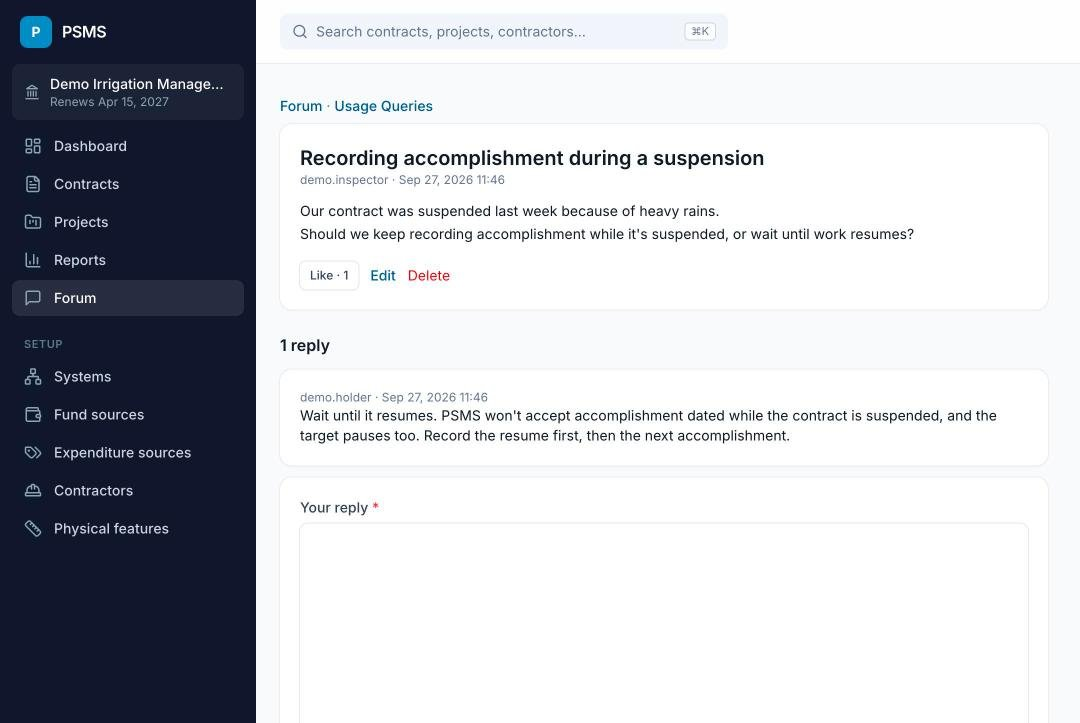
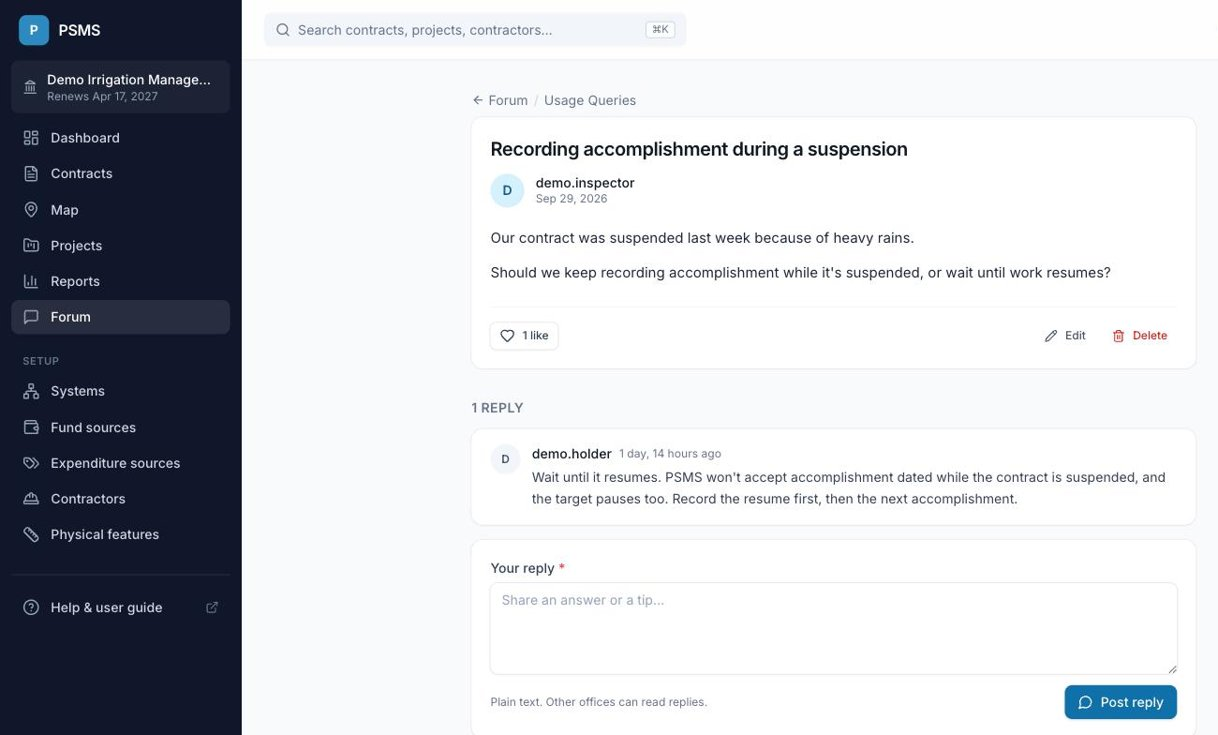
Document the weekly digest and refreshed forum

diff --git a/docs/guide/office.md b/docs/guide/office.md
@@ -29,9 +29,28 @@ The renewal date also appears in the sidebar, and turns amber once it has passed
 - To renew, or to change your plan or provinces, contact the PSMS administrator. Renewing adds one period (30 days for
   monthly, 365 for yearly) from today or from the current renewal date, whichever is later.
 
-## Report settings
+## Report and email settings
 
 - **Revised expiry from time extensions.** *Off* (default): a contract's revised expiry is the original expiry plus the
   days it was suspended. *On*: the original expiry plus approved time extensions. Both dates are always shown on the
   contract page; this setting decides which one reports call "revised expiry".
 - **Show summary rows in reports.** Shows the summary figures above report tables and adds totals rows to Excel exports.
+- **Weekly email digest.** *On* (default): every Monday at 7:00 AM, the office's Account Holders get an email listing
+  the contracts that need attention. See [Weekly digest](#weekly-digest). Turn it off to stop these emails for everyone
+  in the office.
+
+## Weekly digest
+
+Each Monday morning, Account Holders get one email per office with:
+
+- **Became overdue this week:** contracts that passed their revised expiry in the last 7 days without being completed.
+- **Falling further behind:** ongoing contracts behind schedule whose slippage got at least 1 percentage point worse
+  since the week before.
+- **Expiring in the next 30 days:** contracts whose revised expiry is coming up.
+- **No accomplishment entered in 30+ days:** ongoing contracts nobody has updated for a month, so their figures may
+  be out of date.
+
+Each contract has a link to its page. If nothing needs attention that week, no email is sent. Like the dashboard, the
+digest leaves out work done by administration. It goes only to Account Holders who have an email address on their
+account.
+

diff --git a/docs/guide/forum.md b/docs/guide/forum.md
@@ -10,8 +10,9 @@ contractors, personal information or anything confidential.
 
 ## Browsing
 
-Open **Forum** in the sidebar. Posts are listed newest first, 30 per page, each with its category, author, date, number
-of replies and likes. Use the **Categories** list on the left to show one category, or **All**:
+Open **Forum** in the sidebar. Posts are listed newest first, 30 per page, each with its category, author, when it was
+posted and last replied to, and its reply and like counts. Use **Categories** on the left (along the top on a phone)
+to show one category, or **All posts**:
 
 - **Announcements:** news from the PSMS team, such as new features and maintenance.
 - **Usage Queries:** "how do I...?" questions about using PSMS.
@@ -35,8 +36,8 @@ during a suspension"* rather than *"Help"*.
 ## Replying and liking
 
 - Open a post to read the replies, oldest first, and type yours in the box at the bottom, then click **Post reply**.
-- **Like** a post to show it was helpful; click again (**Unlike**) to take it back. The number shows how many people
-  liked it.
+- Click the **heart** under a post to like it; it turns red. Click again to take your like back. The number shows how
+  many people liked it.
 
 ## Editing and deleting
 

diff --git a/docs/calculations.md b/docs/calculations.md
@@ -15,7 +15,7 @@ worked example: a **100-day** contract that **starts on January 1**, so day 1 is
 | **Original expiry** | start + duration − 1 (the last day of the contract) | April 10 |
 | **Expiry due to suspensions** | original expiry + days suspended | April 20, after 10 days suspended |
 | **Expiry due to time extensions** | original expiry + approved time-extension days | April 25, after a 15-day extension |
-| **Revised expiry** | one of the two above, chosen in [office settings](/guide/office#report-settings) (suspensions by default) | |
+| **Revised expiry** | one of the two above, chosen in [office settings](/guide/office#report-and-email-settings) (suspensions by default) | |
 
 A contract is **overdue** when it isn't completed and the as-of date is after its revised expiry.
 

diff --git a/docs/whats-new.md b/docs/whats-new.md
@@ -28,6 +28,9 @@ See [Roles and permissions](/guide/roles).
 
 ## New
 
+- **[Weekly digest](/guide/office#weekly-digest):** a Monday email to Account Holders with the contracts that need attention.
+- **Refreshed forum:** a cleaner layout, like and reply counts on each post, and old posts from the previous PSMS now
+  show as plain text instead of raw formatting codes.
 - **Renewal reminders:** Account Holders and the office email get an email a week and a day before the subscription is due.
 - **[Map](/guide/map):** see every contract on a map, colored by status, and pin each contract's work site.
 - **Sign in with an email link:** no password needed; PSMS emails you a one-time link.

diff --git a/docs/guide/reports.md b/docs/guide/reports.md
@@ -22,7 +22,7 @@ Every contract of the year with location, contractor, project-in-charge, origina
 duration, original expiry, days suspended, expiry dates, days elapsed, % time elapsed, target, actual, slippage and
 remarks, plus one column per [physical feature](/guide/setup#physical-features) showing the quantity as of the date.
 Summary figures appear above the table and a totals row is added to the Excel file; both can be turned off in
-[office settings](/guide/office#report-settings).
+[office settings](/guide/office#report-and-email-settings).
 
 ### Behind schedule
 

diff --git a/docs/guide/contracts.md b/docs/guide/contracts.md
@@ -103,7 +103,7 @@ original amount in progress, billings and reports.
 
 Approved time extensions add days to the contract time. Enter the request and approval dates and the number of days.
 They count from the approval date. Whether the **revised expiry** in reports uses suspensions or time extensions is an
-[office setting](/guide/office#report-settings).
+[office setting](/guide/office#report-and-email-settings).
 
 ### Physical features
 
